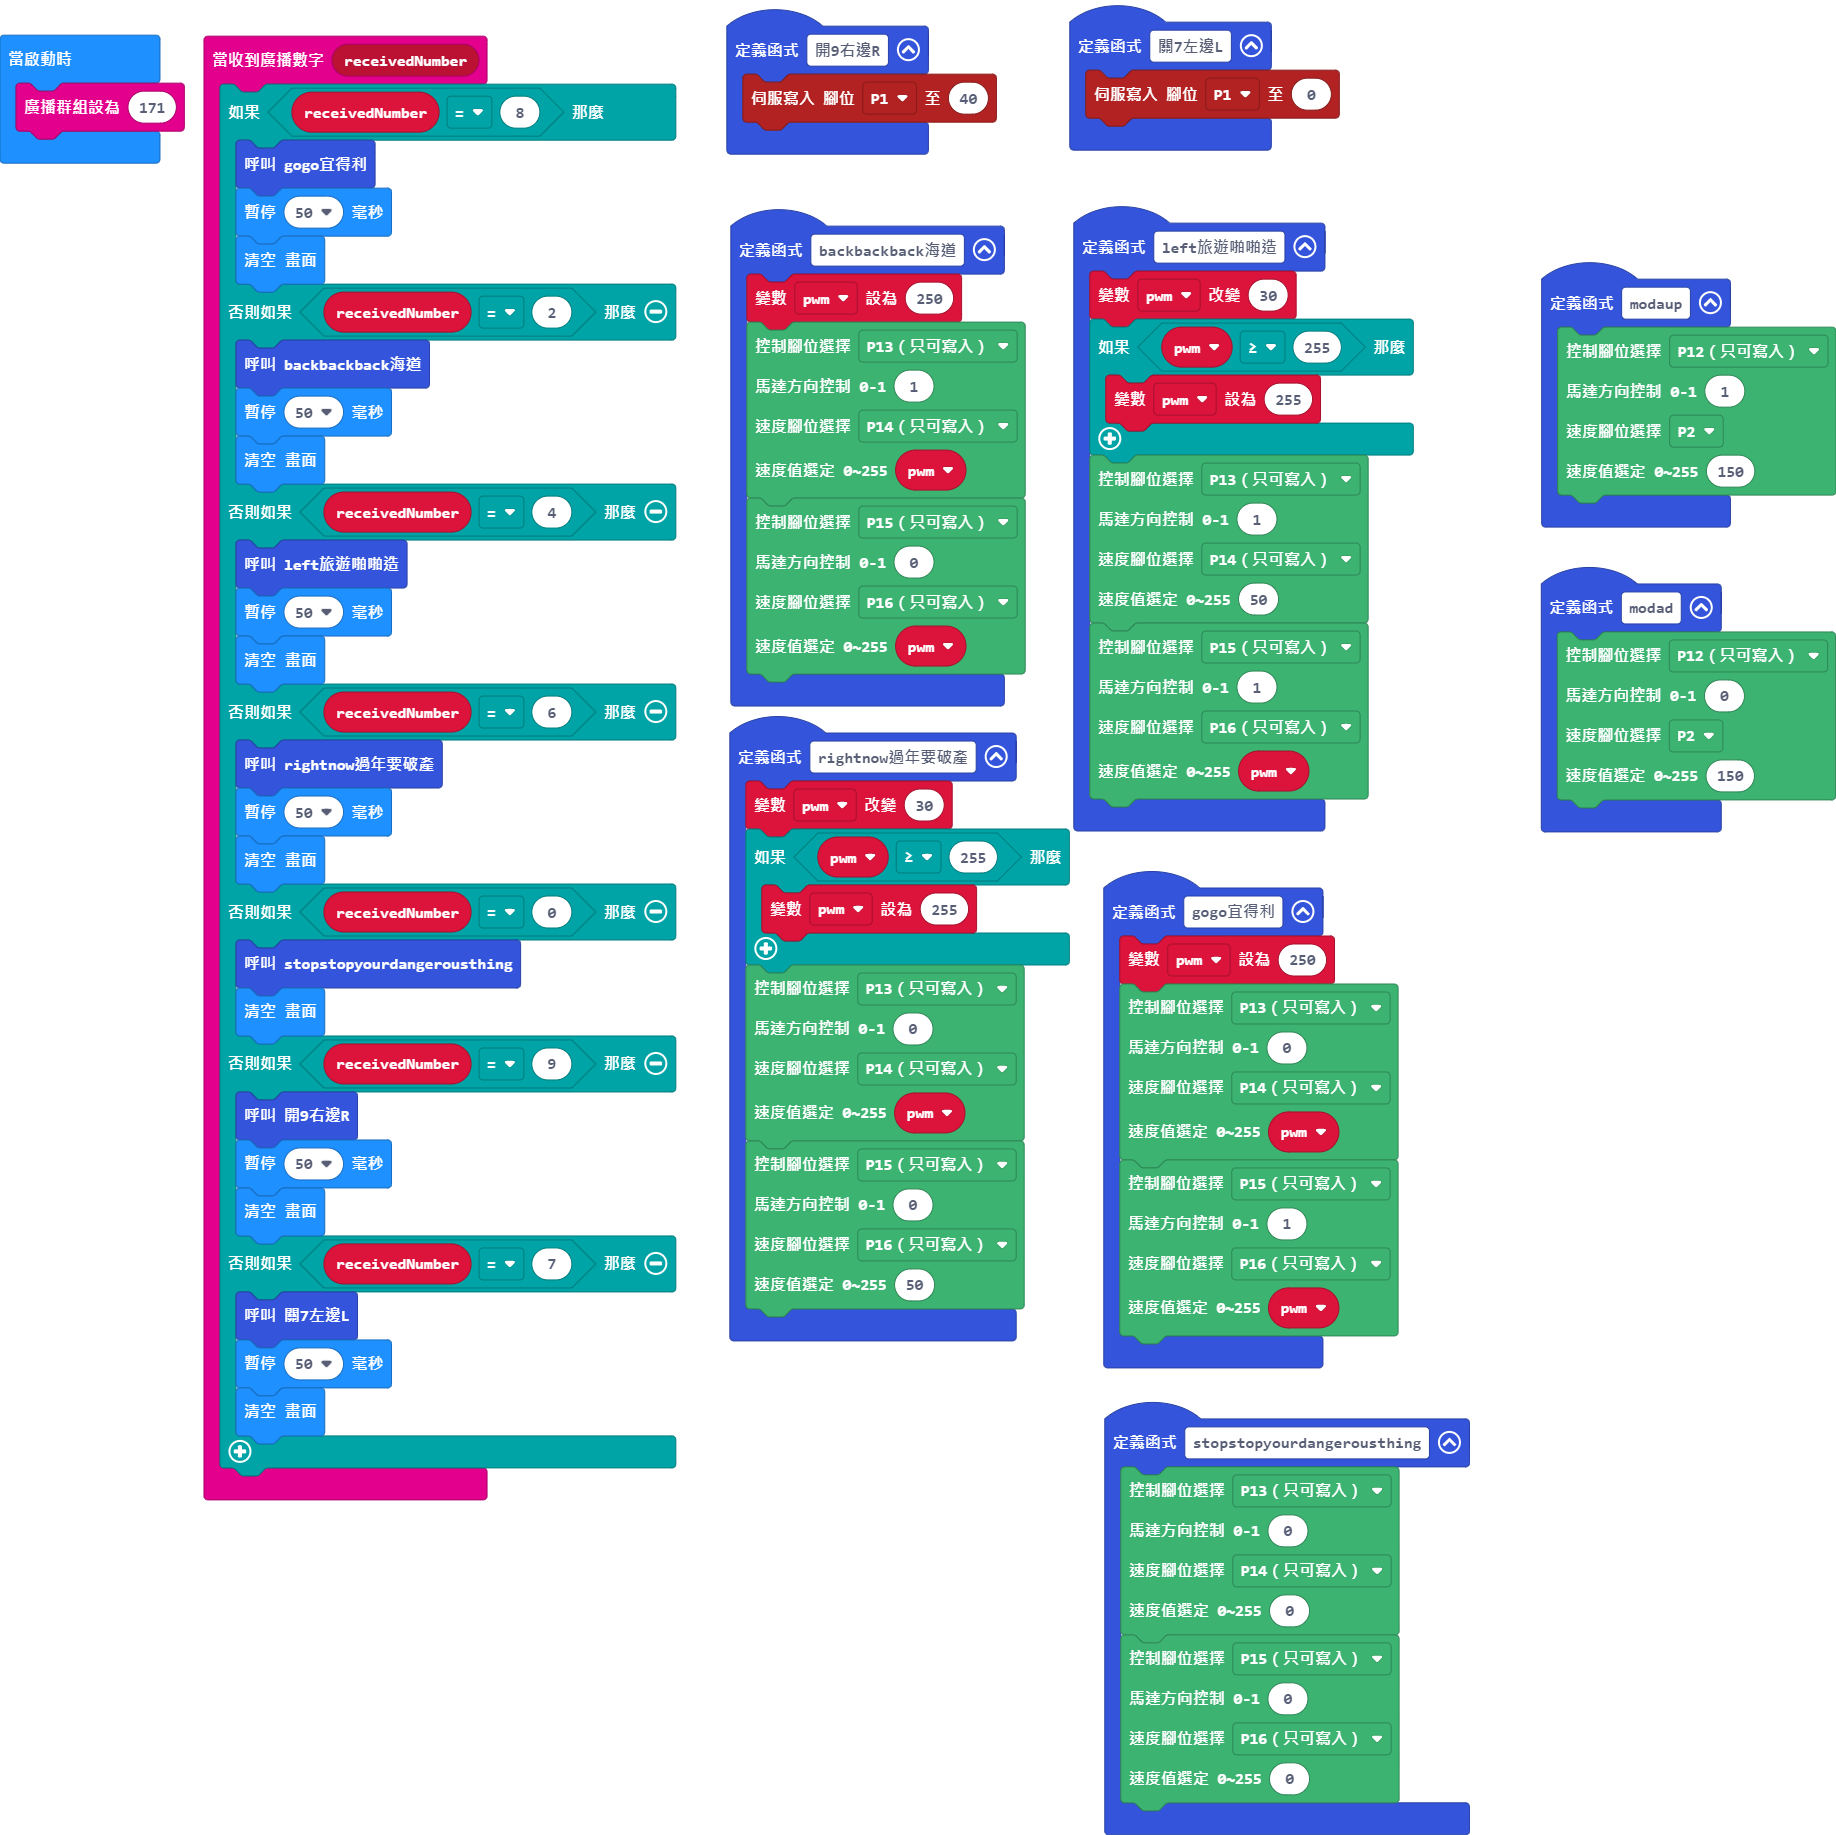
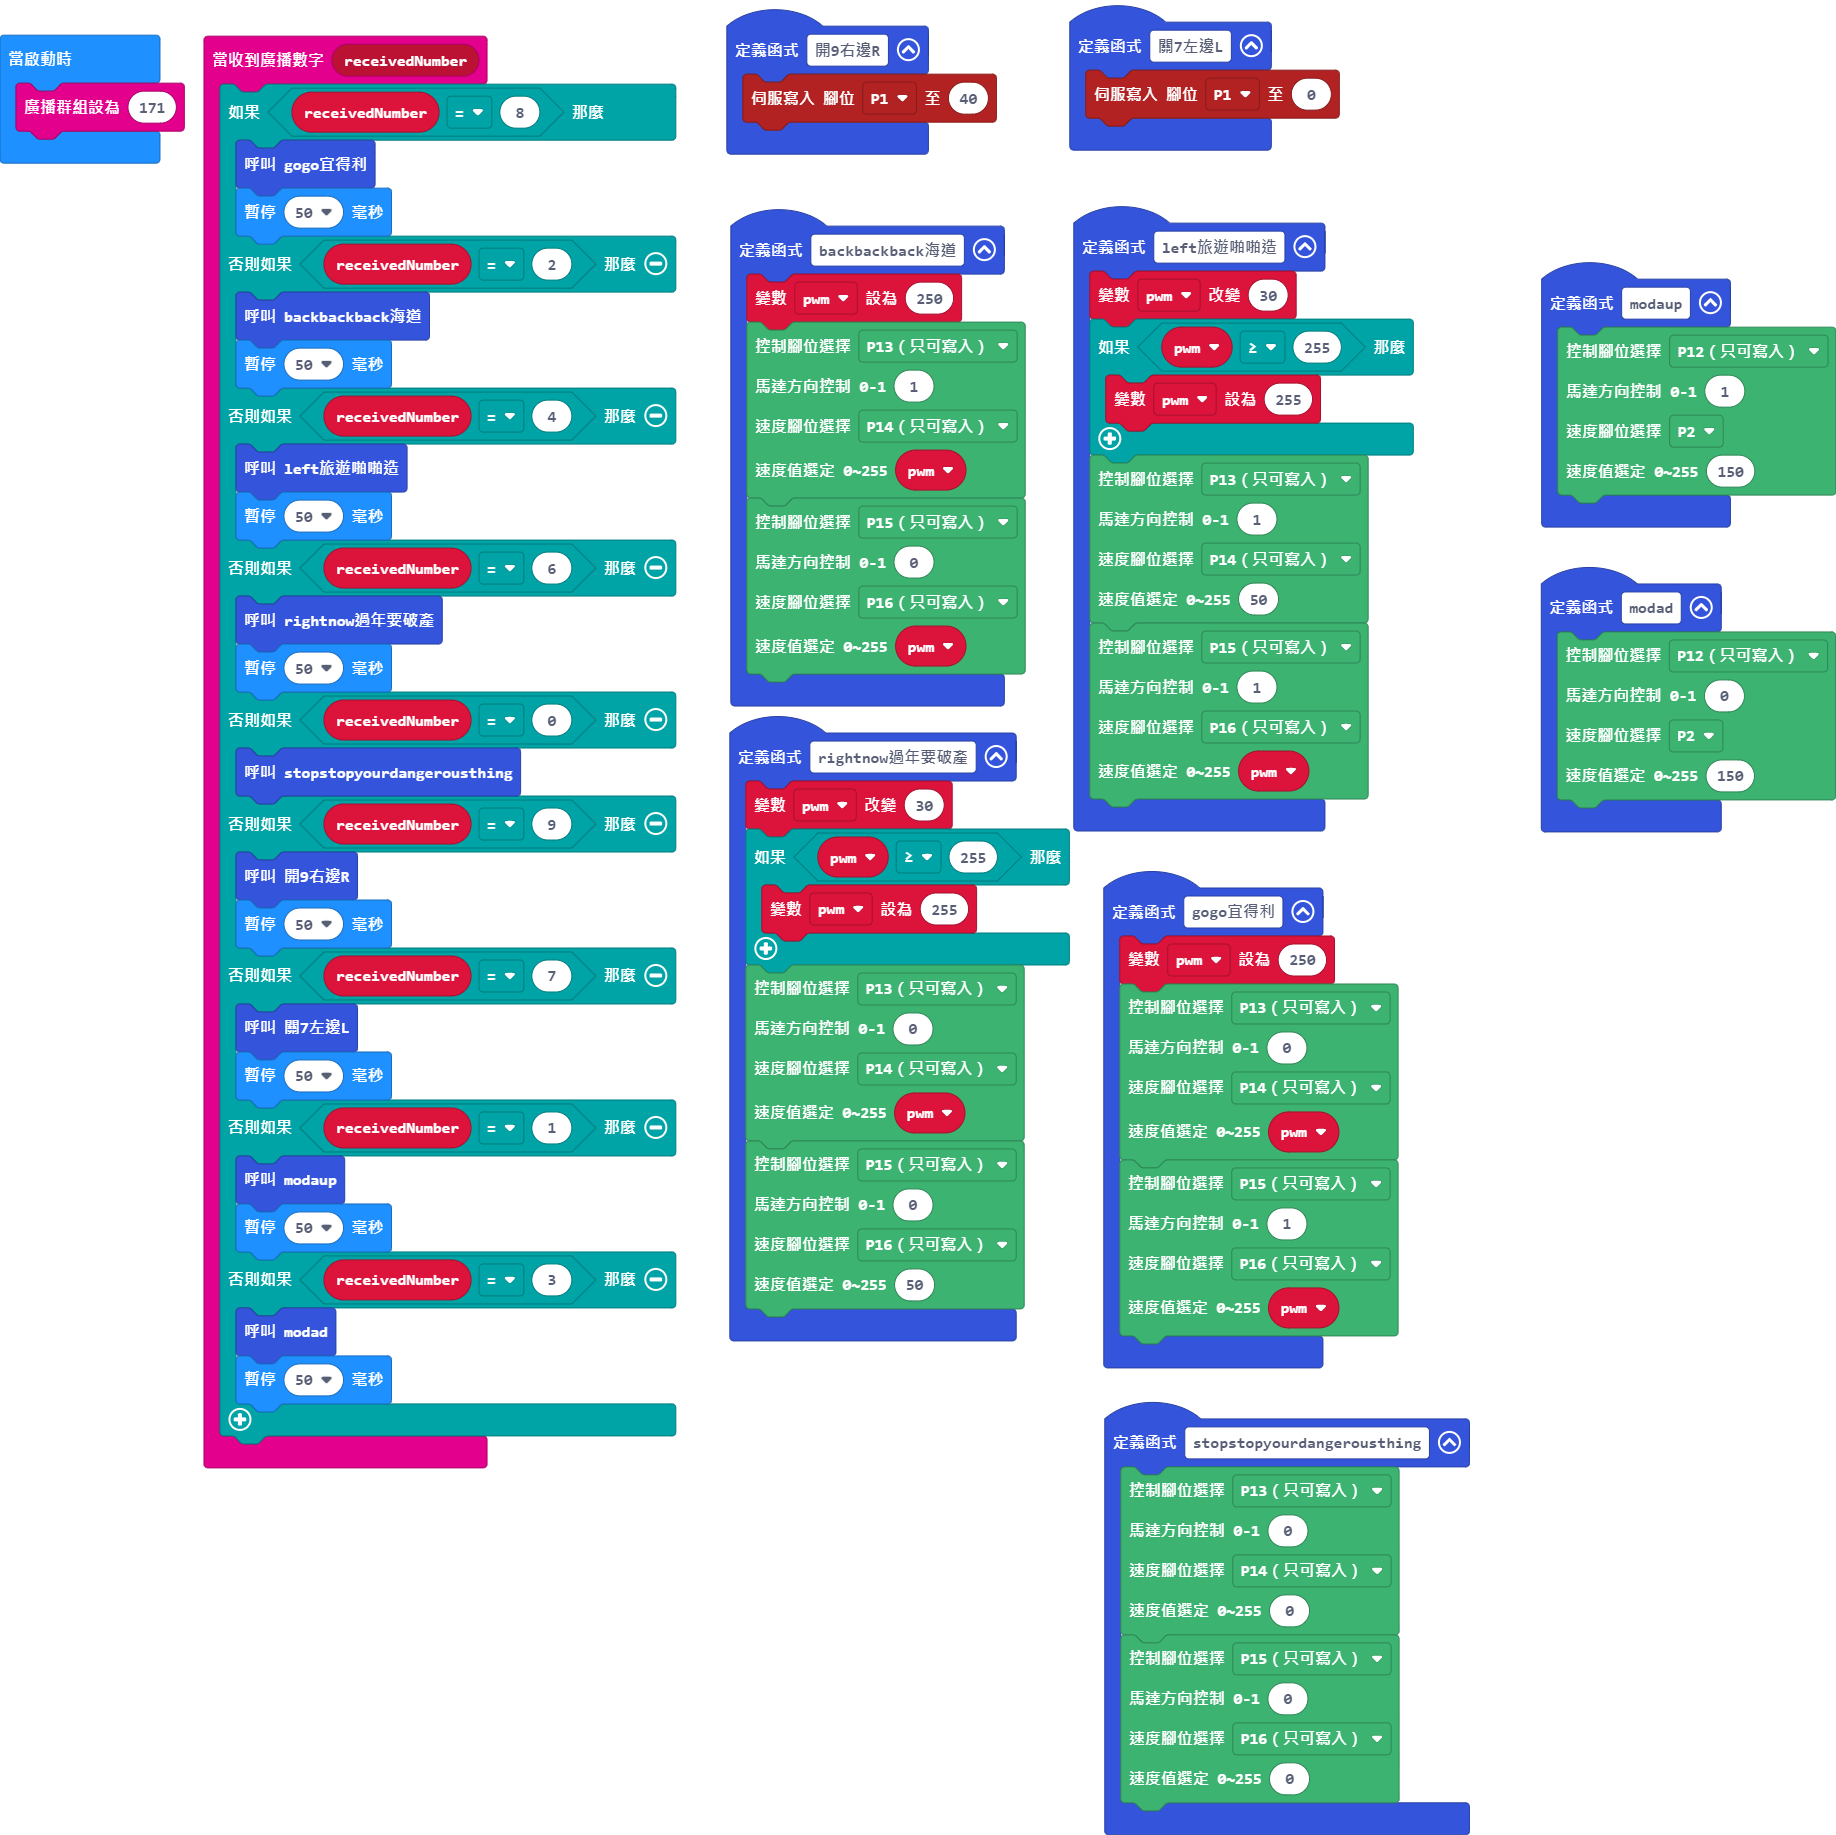
更新 main.blocks, main.ts

Changed region(s): [[0.0931, 0.1243, 0.3725, 0.8387]]

diff --git a/main.ts b/main.ts
@@ -25,30 +25,29 @@ radio.onReceivedNumber(function (receivedNumber) {
     if (receivedNumber == 8) {
         gogo宜得利()
         basic.pause(50)
-        basic.clearScreen()
     } else if (receivedNumber == 2) {
         backbackback海道()
         basic.pause(50)
-        basic.clearScreen()
     } else if (receivedNumber == 4) {
         left旅遊啪啪造()
         basic.pause(50)
-        basic.clearScreen()
     } else if (receivedNumber == 6) {
         rightnow過年要破產()
         basic.pause(50)
-        basic.clearScreen()
     } else if (receivedNumber == 0) {
         stopstopyourdangerousthing()
-        basic.clearScreen()
     } else if (receivedNumber == 9) {
         開9右邊R()
         basic.pause(50)
-        basic.clearScreen()
     } else if (receivedNumber == 7) {
         關7左邊L()
         basic.pause(50)
-        basic.clearScreen()
+    } else if (receivedNumber == 1) {
+        modaup()
+        basic.pause(50)
+    } else if (receivedNumber == 3) {
+        modad()
+        basic.pause(50)
     }
 })
 function 開9右邊R () {
